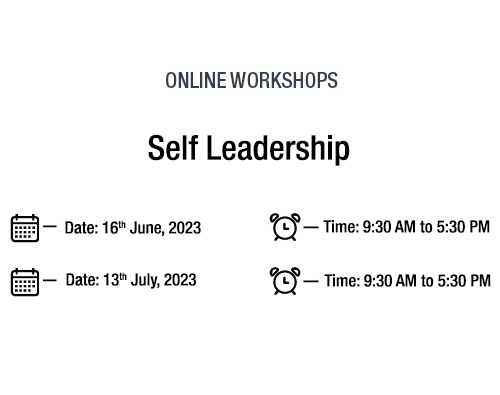
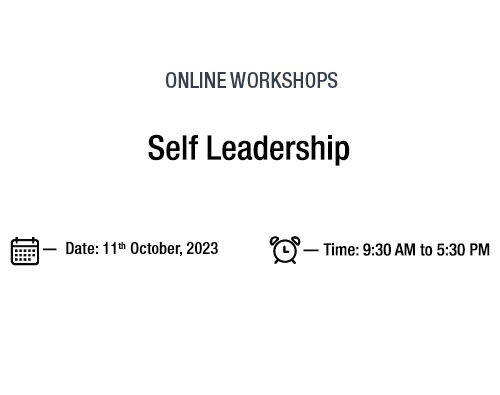
kmk
kmk

Changed region(s): [[0.54, 0.5165, 0.99, 0.7595], [0.0, 0.5468, 0.45, 0.7595]]

diff --git a/pages/workshops.js b/pages/workshops.js
@@ -58,9 +58,9 @@ export default function Workshops() {
 
 
 
-                       
 
-                    
+
+
 
                         {/* <div className='col-sm-4'>
                             <div className='eventsbox'>
@@ -88,30 +88,7 @@ export default function Workshops() {
                             </div>
                         </div> */}
 
-                        {/* <div className='col-sm-4'>
-                            <div className='eventsbox'>
-                                <div className='eventmiddle'>
-                                    <img src="/assets/img/events.jpg" alt="" />
-                                    <span>Workshop - August 7th to 8th, 2023</span>
-                                </div>
-                                <div className='eventbottom'>
-                                    <h3>The SLII Experience™ - Virtual</h3>
-                                    <a className="eventbtn" href='#Register'>Reserve Your Seat</a>
-                                </div>
-                            </div>
-                        </div>
-                        <div className='col-sm-4'>
-                            <div className='eventsbox'>
-                                <div className='eventmiddle'>
-                                    <img src="/assets/img/events.jpg" alt="" />
-                                    <span>Workshop - August 9th to 10th, 2023</span>
-                                </div>
-                                <div className='eventbottom'>
-                                    <h3>The SLII Experience™ - T4T</h3>
-                                    <a className="eventbtn" href='#Register'>Reserve Your Seat</a>
-                                </div>
-                            </div>
-                        </div> */}
+                        
 
                         {/* <div className='col-sm-4'>
                             <div className='eventsbox'>
@@ -126,7 +103,7 @@ export default function Workshops() {
                             </div>
                         </div> */}
 
-                        <div className='col-sm-4'>
+                        {/* <div className='col-sm-4'>
                             <div className='eventsbox'>
                                 <div className='eventmiddle'>
                                     <img src="/assets/img/events.jpg" alt="" />
@@ -166,7 +143,7 @@ export default function Workshops() {
                                     <a className="eventbtn" href='#Register'>Reserve Your Seat</a>
                                 </div>
                             </div>
-                        </div>
+                        </div> */}
 
                         <div className='col-sm-4'>
                             <div className='eventsbox'>
@@ -198,6 +175,31 @@ export default function Workshops() {
                             <div className='eventsbox'>
                                 <div className='eventmiddle'>
                                     <img src="/assets/img/events.jpg" alt="" />
+                                    <span>Workshop - September 25th to 26th, 2023</span>
+                                </div>
+                                <div className='eventbottom'>
+                                    <h3>The SLII Experience™ - Virtual</h3>
+                                    <a className="eventbtn" href='#Register'>Reserve Your Seat</a>
+                                </div>
+                            </div>
+                        </div>
+                        <div className='col-sm-4'>
+                            <div className='eventsbox'>
+                                <div className='eventmiddle'>
+                                    <img src="/assets/img/events.jpg" alt="" />
+                                    <span>Workshop - September 27th to 28th, 2023</span>
+                                </div>
+                                <div className='eventbottom'>
+                                    <h3>The SLII Experience™ - T4T</h3>
+                                    <a className="eventbtn" href='#Register'>Reserve Your Seat</a>
+                                </div>
+                            </div>
+                        </div>
+
+                        <div className='col-sm-4'>
+                            <div className='eventsbox'>
+                                <div className='eventmiddle'>
+                                    <img src="/assets/img/events.jpg" alt="" />
                                     <span>Workshop - September 28th, 2023</span>
                                 </div>
                                 <div className='eventbottom'>
@@ -220,7 +222,7 @@ export default function Workshops() {
                             </div>
                         </div>
 
-                        
+
 
                         <div className='col-sm-4'>
                             <div className='eventsbox'>
@@ -341,18 +343,19 @@ export default function Workshops() {
                                         </div>
                                         <div className="col-sm-6 mb-12">
                                             <select name="leadsquared_mx_Showed_Interest_in" required>
-                                                <option value="">Pick up any Slot*</option>                                                
+                                                <option value="">Pick up any Slot*</option>
                                                 {/* <option value="Team Leadership - Virtual July 26th, 2023">Team Leadership - Virtual July 26th, 2023</option>
                                                 <option value="Crucial Life Changing Skills, Getting Things Done - July 27th, 2023">Crucial Life Changing Skills, Getting Things Done - July 27th, 2023</option> */}
-                                                {/* <option value="The SLII Experience™, Virtual - August 7th to 8th, 2023">The SLII Experience™, Virtual - August 7th to 8th, 2023</option>
-                                                <option value="The SLII Experience™, T4T - August 9th to 10th, 2023">The SLII Experience™, T4T - August 9th to 10th, 2023</option> 
+                                                {/* 
                                                 <option value="August 17th - 18th, 2023 - DISC Certification (TTT)">August 17th - 18th, 2023 - DISC Certification (TTT)</option>*/}
-                                                
-                                                <option value="Conversational Capacity - Virtual - August 23rd, 2023">Conversational Capacity - Virtual - August 23rd, 2023</option>
+
+                                                {/* <option value="Conversational Capacity - Virtual - August 23rd, 2023">Conversational Capacity - Virtual - August 23rd, 2023</option>
                                                 <option value="Crucial Life Changing Skills, The Power of Habit - August 24th, 2023">Crucial Life Changing Skills, The Power of Habit - August 24th, 2023</option>
-                                                <option value="Crucial Life Changing Skills, Influencer - August 24th - 25th, 2023">Crucial Life Changing Skills, Influencer - August 24th - 25th, 2023</option>
+                                                <option value="Crucial Life Changing Skills, Influencer - August 24th - 25th, 2023">Crucial Life Changing Skills, Influencer - August 24th - 25th, 2023</option> */}
                                                 <option value="Crucial Life Changing Skills, Crucial Conversations for Mastering Dialogue - September 13th - 14th, 2023">Crucial Life Changing Skills, Crucial Conversations for Mastering Dialogue - September 13th - 14th, 2023</option>
                                                 <option value="September 19th - 22nd, 2023 - DiSC Certification Virtual Workshop">September 19th - 22nd, 2023 - DiSC Certification Virtual Workshop</option>
+                                                <option value="The SLII Experience™ - September 25th, 2023">The SLII Experience™ - September 25th, 2023</option>
+                                                <option value="The SLII Experience™ T4T F2F - September 27th, 2023">The SLII Experience™ T4T F2F - September 27th, 2023</option>
                                                 <option value="Crucial Life Changing Skills, Getting Things Done - September 28th, 2023">Crucial Life Changing Skills, Getting Things Done - September 28th, 2023</option>
                                                 <option value="Crucial Life Changing Skills, Crucial Conversations for Accountability - October 5th - 6th, 2023">Crucial Life Changing Skills, Crucial Conversations for Accountability - October 5th - 6th, 2023</option>
                                                 <option value="Crucial Life Changing Skills, The Power of Habit - November 29th, 2023">Crucial Life Changing Skills, The Power of Habit - November 29th, 2023</option>

diff --git a/pages/webinars-and-program-experience.js b/pages/webinars-and-program-experience.js
@@ -229,7 +229,7 @@ export default function WebinarsAndProgramExperience() {
                             </div>
                         </div> */}
 
-                        <div className='col-sm-4'>
+                        {/* <div className='col-sm-4'>
                             <div className='eventsbox'>
                                 <div className='eventmiddle'>
                                     <img src="/assets/img/events.jpg" alt="" />
@@ -255,7 +255,7 @@ export default function WebinarsAndProgramExperience() {
                                     <a className="eventbtn" href='#Register'>Reserve Your Seat</a>
                                 </div>
                             </div>
-                        </div>
+                        </div> */}
 
                         <div className='col-sm-4'>
                             <div className='eventsbox'>
@@ -347,8 +347,8 @@ export default function WebinarsAndProgramExperience() {
                                                 {/* <option value="Everything DiSC Work Productive Conflict, 5th July, 2023">Everything DiSC Work Productive Conflict, 5th July, 2023</option>                                               
                                                 <option value="Everything DiSC Agile EQ, 19th July, 2023">Everything DiSC Agile EQ, 19th July, 2023</option> */}
                                                 {/* <option value="Five Behaviour Personal Development, 2nd August, 2023">Five Behaviour Personal Development, 2nd August, 2023</option> */}
-                                                <option value="Inside Out Coaching, 23rd August 2023">Inside Out Coaching, 23rd August 2023</option>
-                                                <option value="Lumina Spark, 23rd August, 2023">Lumina Spark, 23rd August, 2023</option>
+                                                {/* <option value="Inside Out Coaching, 23rd August 2023">Inside Out Coaching, 23rd August 2023</option>
+                                                <option value="Lumina Spark, 23rd August, 2023">Lumina Spark, 23rd August, 2023</option> */}
                                                 <option value="Crucial Life Changing Skills, Getting things done – October 23rd, 2023">Crucial Life Changing Skills, Getting things done – October 23rd, 2023</option>
                                                 <option value="Crucial Life Changing Skills, The power of habit – December 5th, 2023">Crucial Life Changing Skills, The power of habit – December 5th, 2023</option>
                                             </select>

diff --git a/pages/cruciallifechangingskills/workshops.js b/pages/cruciallifechangingskills/workshops.js
@@ -149,7 +149,7 @@ export default function Workshops(){
                        </div>
                     </div> */}
 
-                    <div class="col-md-4 workshop-col"> 
+                    {/* <div class="col-md-4 workshop-col"> 
                        <div class="row workshop-row"> 
                             <div class="col-md-12 workshop-content phothemecolor"> 
                             <img class="left-image img100px mbb-30" src="/classets/img/logo-influencer.svg" alt="" />
@@ -177,7 +177,7 @@ export default function Workshops(){
                             <a href='#registered'><button class="register">REGISTER NOW</button></a>
                             </div>
                        </div>
-                    </div>
+                    </div> */}
 
                     <div class="col-md-4 workshop-col"> 
                        <div class="row workshop-row"> 
@@ -400,8 +400,8 @@ export default function Workshops(){
                                     <div class="col-md-6 col-6">                                        
                                         <select name='slot' required>
                                             <option value="">Pick any Slot*</option>                                            
-                                            <option value="The Power of Habit - August 24th, 2023">The Power of Habit - August 24th, 2023</option>
-                                            <option value="Influencer - August 24th - 25th, 2023">Influencer - August 24th - 25th, 2023</option>
+                                            {/* <option value="The Power of Habit - August 24th, 2023">The Power of Habit - August 24th, 2023</option>
+                                            <option value="Influencer - August 24th - 25th, 2023">Influencer - August 24th - 25th, 2023</option> */}
                                             <option value="Crucial Conversations for Mastering Dialogue - September 13th - 14th, 2023">Crucial Conversations for Mastering Dialogue - September 13th - 14th, 2023</option>
                                             <option value="Getting Things Done - September 28th, 2023">Getting Things Done - September 28th, 2023</option>
                                             <option value="Crucial Conversations for Accountability - October 5th - 6th, 2023">Crucial Conversations for Accountability - October 5th - 6th, 2023</option>                                            

diff --git a/pages/blanchardindia/events-workshops/virtual-public-workshop.js b/pages/blanchardindia/events-workshops/virtual-public-workshop.js
@@ -112,7 +112,7 @@ export default function VirtualPublicWorkshop() {
                                        {/* <option value="Team Leadership - Virtual July 26th, 2023">Team Leadership - Virtual July 26th, 2023</option> */}
                                        {/* <option value="The SLII Experience™, Virtual - August 7th to 8th, 2023">The SLII Experience™, Virtual - August 7th to 8th, 2023</option>
                                        <option value="The SLII Experience™, T4T - August 9th to 10th, 2023">The SLII Experience™, T4T - August 9th to 10th, 2023</option> */}
-                                       <option value="Conversational Capacity - Virtual - August 23rd, 2023">Conversational Capacity - Virtual - August 23rd, 2023</option>
+                                       {/* <option value="Conversational Capacity - Virtual - August 23rd, 2023">Conversational Capacity - Virtual - August 23rd, 2023</option> */}
                                        <option value="Blanchard Management Essentials - Virtual - September 13th, 2023">Blanchard Management Essentials - Virtual - September 13th, 2023</option>
                                        <option value="Coaching Essentials - Virtual - September 21st, 2023">Coaching Essentials - Virtual - September 21st, 2023</option>
                                        <option value="The SLII Experience™ - September 25th, 2023">The SLII Experience™ - September 25th, 2023</option>
@@ -223,7 +223,7 @@ export default function VirtualPublicWorkshop() {
                               </div>
                            </div> */}
 
-                           <div className="col-sm-4">
+                           {/* <div className="col-sm-4">
                               <div className="choose-card">
                                  <img src="/kbassets/img/workshopformain1.jpg" alt="Images" />
                                  <h3>Conversational Capacity - Virtual</h3>
@@ -234,7 +234,7 @@ export default function VirtualPublicWorkshop() {
                                     </div>
                                  </div>
                               </div>
-                           </div>
+                           </div> */}
 
                            <div className="col-sm-4">
                               <div className="choose-card">

diff --git a/pages/cruciallifechangingskills/the-power-of-habit-new-lp.js b/pages/cruciallifechangingskills/the-power-of-habit-new-lp.js
@@ -160,7 +160,6 @@ export default function BrowseCourses(){
                         <div class="col-md-6 col-6">
                         <select name='slot' required>
                             <option value="">Pick any Slot*</option>                            
-                            <option value="Workshop – August 24th, 2023">Workshop – August 24th, 2023</option>
                             <option value="Workshop – November 29th, 2023">Workshop – November 29th, 2023</option>
                             <option value="Virtual Course Preview – December 5th, 2023">Virtual Course Preview – December 5th, 2023</option>
                             <option value="The Power of Habit - March 14th, 2024">The Power of Habit - March 14th, 2024</option>
@@ -241,7 +240,7 @@ export default function BrowseCourses(){
 
                     
 
-                    <div class="col-md-4 workshop-col"> 
+                    {/* <div class="col-md-4 workshop-col"> 
                        <div class="row workshop-row"> 
                             <div class="col-md-12 workshop-content phothemecolor"> 
                             <img class="left-image img100px mbb-30" src="/classets/img/logo-influencer.svg" alt="" />
@@ -254,7 +253,7 @@ export default function BrowseCourses(){
                             <a href='#registered'><button class="register phothemecolor">REGISTER NOW</button></a>
                             </div>
                        </div>
-                    </div>
+                    </div> */}
 
                     <div class="col-md-4 workshop-col"> 
                        <div class="row workshop-row"> 

diff --git a/pages/cruciallifechangingskills/influencer-new-lp.js b/pages/cruciallifechangingskills/influencer-new-lp.js
@@ -155,7 +155,7 @@ export default function BrowseCourses(){
                         <div class="col-md-6 col-6">
                         <select name='slot' required>
                             <option value="">Pick any Slot*</option>                            
-                            <option value="Workshop - August 24th - 25th, 2023">Workshop - August 24th - 25th, 2023</option>
+                            
                             <option value="Workshop - February 28th - 29th, 2024">Workshop - February 28th - 29th, 2024</option>
                         </select>
                         </div>
@@ -215,7 +215,7 @@ export default function BrowseCourses(){
                           </div> 
                    
 
-                    <div class="col-md-4 workshop-col"> 
+                    {/* <div class="col-md-4 workshop-col"> 
                        <div class="row workshop-row"> 
                             <div class="col-md-12 workshop-content green-col"> 
                             <img class="left-image img100px mbb-30" src="/classets/img/logo-influencer.svg" alt="" />
@@ -228,7 +228,7 @@ export default function BrowseCourses(){
                             <a href='#registered'><button class="register">REGISTER NOW</button></a>
                             </div>
                        </div>
-                    </div>
+                    </div> */}
                     
                     <div class="col-md-4 workshop-col"> 
                        <div class="row workshop-row"> 

diff --git a/pages/blanchardindia/lp/slx-lp.js b/pages/blanchardindia/lp/slx-lp.js
@@ -101,8 +101,8 @@ export default function HybridWorkplaces() {
                            <label>Interested In*</label>
                            <select name="interest_in" className="form-control" required>
                               <option value="">---Select---</option>
-                              <option value="The SLII Experience™ - Virtual - August 7th - 8th, 2023">The SLII Experience™ - Virtual - August 7th - 8th, 2023</option>
-                              <option value="The SLII Experience™ - T4T - August 9th - 10th, 2023">The SLII Experience™ - T4T - August 9th - 10th, 2023</option>
+                              <option value="The SLII Experience™ - Virtual - September 25th - 26th, 2023">The SLII Experience™ - Virtual - September 25th - 26th, 2023</option>
+                              <option value="The SLII Experience™ - T4T - September 27th - 28th, 2023">The SLII Experience™ - T4T - September 27th - 28th, 2023</option>
                            </select>
                            <div className="help-block with-errors"></div>
                         </div>

diff --git a/pages/blanchardindia/events-workshops/index.js b/pages/blanchardindia/events-workshops/index.js
@@ -123,7 +123,7 @@ export default function EventsAndWorkshop() {
                               </div>
                            </div> */}
 
-                           <div className="col-sm-4">
+                           {/* <div className="col-sm-4">
                               <div className="choose-card">
                                  <img src="/kbassets/img/workshopformain1.jpg" alt="Images" />
                                  <h3>Conversational Capacity - Virtual</h3>
@@ -134,7 +134,7 @@ export default function EventsAndWorkshop() {
                                     </div>
                                  </div>
                               </div>
-                           </div>
+                           </div> */}
 
                            <div className="col-sm-4">
                               <div className="choose-card">

diff --git a/pages/blanchardindia/lp/self-leadership-workshop-lp.js b/pages/blanchardindia/lp/self-leadership-workshop-lp.js
@@ -113,7 +113,7 @@ export default function HybridWorkplaces() {
                            <div className="form-group">
                               <label>Program Name*</label>                              
                               <select className="form-control" name="interest_in" required>                                 
-                                 <option value="Self leadership Workshop: July 13th, 2023">Self leadership Workshop: July 13th, 2023</option>
+                                 <option value="Self leadership Workshop: October 11th, 2023">Self leadership Workshop: October 11th, 2023</option>
                               </select>
                               <div className="help-block with-errors"></div>
                            </div>

diff --git a/pages/blanchardindia/lp/team-leadership-lp-workshop.js b/pages/blanchardindia/lp/team-leadership-lp-workshop.js
@@ -101,7 +101,7 @@ export default function TeamLeadershipLPWorkshop() {
                            <div className="form-group">
                               <label>Program Name*</label>                              
                               <select className="form-control" name="interest_in" required>
-                                 <option value="Team Leadership Workshop: 26th July, 2023">Team Leadership Workshop: 26th July, 2023</option>
+                                 <option value="Team Leadership Workshop: 11th October, 2023">Team Leadership Workshop: 11th October, 2023</option>
                               </select>
                               <div className="help-block with-errors"></div>
                            </div>
